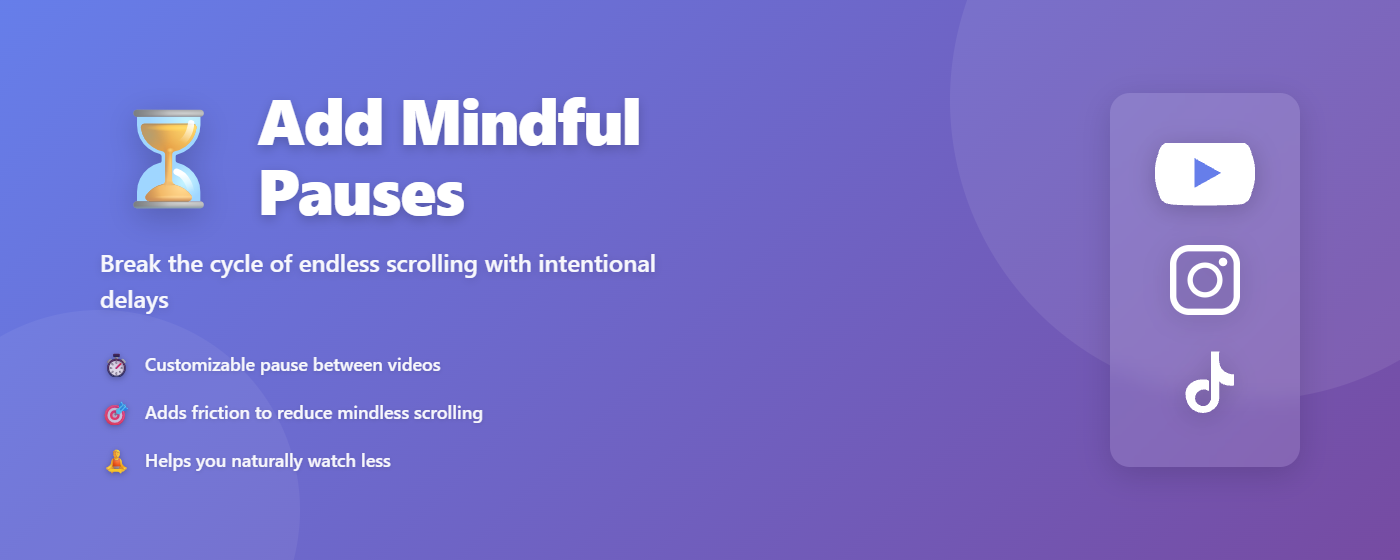
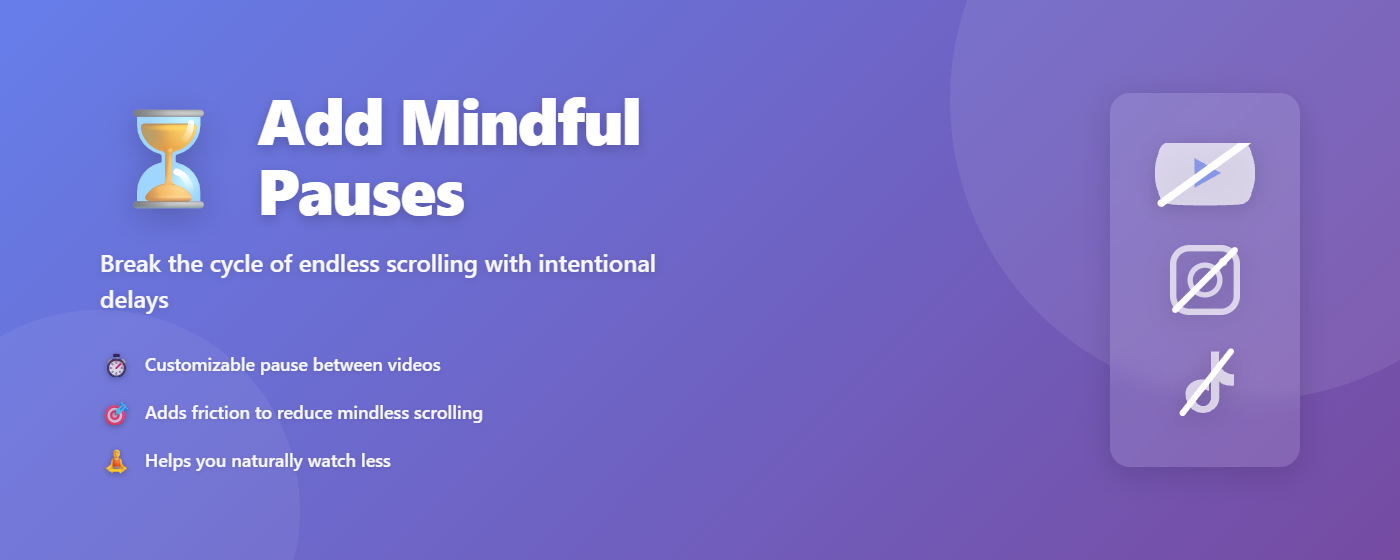
minor changes before adding to webstore

Changed region(s): [[0.7986, 0.2429, 0.9214, 0.3643], [0.8293, 0.425, 0.8907, 0.5768], [0.8293, 0.6071, 0.8907, 0.7589]]

diff --git a/assets/marquee-promo.html b/assets/marquee-promo.html
@@ -179,8 +179,19 @@
               <path
                 d="M154 17.5C154 17.5 152.5 7.75 147.75 3C142 -2.75 135.5 -2.75 132.5 -3C110.5 -4.5 79.5 -4.5 79.5 -4.5C79.5 -4.5 48.5 -4.5 26.5 -3C23.5 -2.75 17 -2.75 11.25 3C6.5 7.75 5 17.5 5 17.5C5 17.5 0 29.25 0 41V53C0 64.75 5 76.5 5 76.5C5 76.5 6.5 86.25 11.25 91C17 96.75 24.5 96.5 27.75 97.25C39.5 98.5 79.5 98.75 79.5 98.75C79.5 98.75 110.5 98.75 132.5 97.25C135.5 97 142 97 147.75 91.25C152.5 86.5 154 76.75 154 76.75C154 76.75 159 65 159 53.25V41.25C159 29.5 154 17.5 154 17.5Z"
                 fill="white"
+                opacity="0.7"
               />
-              <path d="M63 70.5V23.5L105 47L63 70.5Z" fill="#667EEA" />
+              <path d="M63 70.5V23.5L105 47L63 70.5Z" fill="#667EEA" opacity="0.7" />
+              <!-- Diagonal slash -->
+              <line
+                x1="10"
+                y1="95"
+                x2="149"
+                y2="-5"
+                stroke="white"
+                stroke-width="12"
+                stroke-linecap="round"
+              />
             </svg>
           </div>
 
@@ -202,9 +213,28 @@
                 stroke="white"
                 stroke-width="12"
                 fill="none"
+                opacity="0.7"
               />
-              <circle cx="66" cy="66" r="28" stroke="white" stroke-width="10" fill="none" />
-              <circle cx="100" cy="32" r="8" fill="white" />
+              <circle
+                cx="66"
+                cy="66"
+                r="28"
+                stroke="white"
+                stroke-width="10"
+                fill="none"
+                opacity="0.7"
+              />
+              <circle cx="100" cy="32" r="8" fill="white" opacity="0.7" />
+              <!-- Diagonal slash -->
+              <line
+                x1="10"
+                y1="122"
+                x2="122"
+                y2="10"
+                stroke="white"
+                stroke-width="12"
+                stroke-linecap="round"
+              />
             </svg>
           </div>
 
@@ -220,6 +250,17 @@
               <path
                 d="M87 6C87 6 86 19 87 27C88 36 93 43 100 47C107 51 116 51 116 51V73C116 73 106 74 99 72C92 70 87 65 87 65V94C87 94 88 105 82 113C76 121 67 127 55 127C43 127 34 121 28 113C22 105 21 94 21 94C21 94 19 83 25 75C31 67 40 61 52 61C52 61 61 60 67 63V84C67 84 64 82 60 81C56 80 52 81 48 83C44 85 41 89 40 93C39 97 39 101 41 105C43 109 47 112 52 113C57 114 62 113 66 109C70 105 71 99 71 99V6H87Z"
                 fill="white"
+                opacity="0.7"
+              />
+              <!-- Diagonal slash -->
+              <line
+                x1="15"
+                y1="127"
+                x2="110"
+                y2="6"
+                stroke="white"
+                stroke-width="12"
+                stroke-linecap="round"
               />
             </svg>
           </div>

diff --git a/src/popupPage/PopupApp.tsx b/src/popupPage/PopupApp.tsx
@@ -20,7 +20,7 @@ const PopupApp: React.FC = () => {
         <div className={styles.banner}>
           <h2 className={styles.bannerTitle}>✨ Thank you for using ScrollRot!</h2>
           <p className={styles.bannerText}>
-            I'd love to hear from you! If you have feature requests or feedback, please reach out to{" "}
+            If you want to help me, please leave a review on the Chrome Web Store. Contact me at{" "}
             <a
               href={`mailto:${email}`}
               className={styles.emailLink}

diff --git a/src/content-scripts/instagram/instagram.ts b/src/content-scripts/instagram/instagram.ts
@@ -5,7 +5,9 @@ import { FocusDOM } from "../displayFocusDOM";
 function isOnReels(): boolean {
   return (
     window.location.hostname.includes("instagram.com") &&
-    window.location.pathname.includes("/reels/")
+    (window.location.pathname.includes("/reels/") ||
+      window.location.pathname.includes("/p/") ||
+      window.location.pathname.includes("/explore/"))
   );
 }
 

diff --git a/src/content-scripts/instagram/blocker.ts b/src/content-scripts/instagram/blocker.ts
@@ -19,7 +19,9 @@ interface BlockedReel {
 function isOnReels(): boolean {
   return (
     window.location.hostname.includes("instagram.com") &&
-    window.location.pathname.includes("/reels/")
+    (window.location.pathname.includes("/reels/") ||
+      window.location.pathname.includes("/p/") ||
+      window.location.pathname.includes("/explore/"))
   );
 }
 

diff --git a/src/components/ShortsBlockerConfigurer/BlockerConfigurers.tsx b/src/components/ShortsBlockerConfigurer/BlockerConfigurers.tsx
@@ -42,7 +42,7 @@ const BlockerConfigurers: React.FC = () => {
 
   const platformIcons: Record<Platform, string> = {
     shorts: "🎬",
-    reels: "📱",
+    reels: "📸",
     tiktok: "🎵",
   };
 
